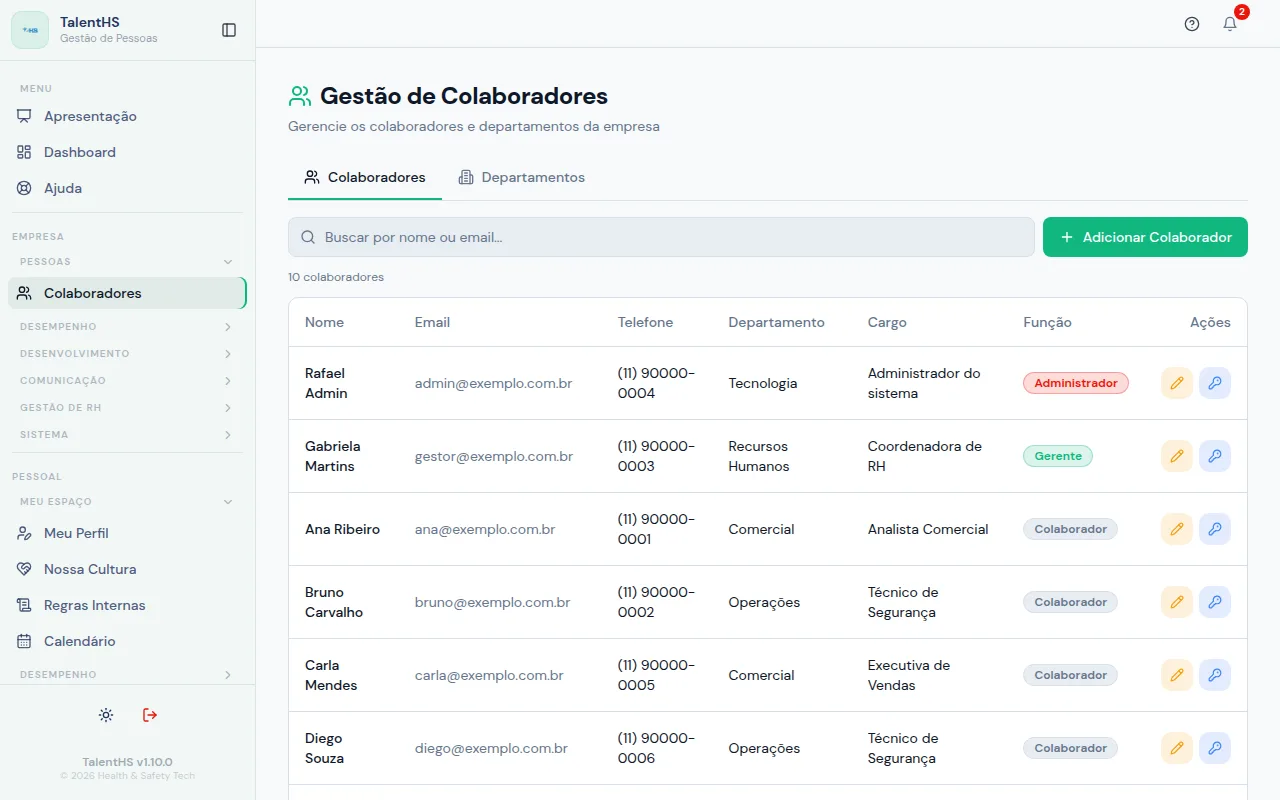
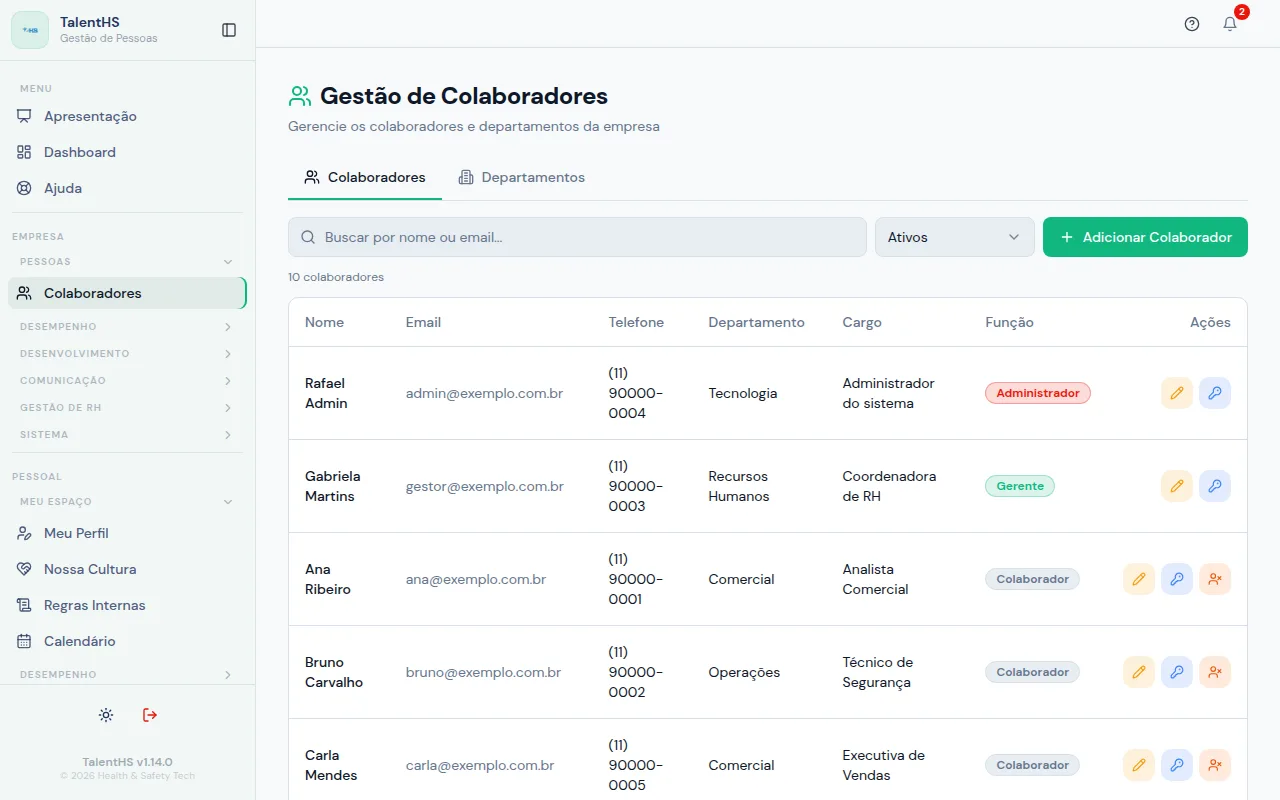
docs(ajuda): desligamento de colaboradores, versão 1.14.0
Guias e capturas das telas com Mostrar desligados, semente com um
desligado fictício, aviso de acesso desativado no login e resumo da
Trilha de Carreira só com ativos.

diff --git a/frontend/src/pages/CareerTracksPage.tsx b/frontend/src/pages/CareerTracksPage.tsx
@@ -68,8 +68,10 @@ export default function CareerTracksPage() {
 
   const toggleExpand = (id: string) => setExpanded(prev => ({ ...prev, [id]: !prev[id] }));
 
-  const eligibleCount = team?.filter(m => m.eligible_for_next).length ?? 0;
-  const noTrackCount = team?.filter(m => !m.track_id).length ?? 0;
+  // Indicadores só da equipe atual, mesmo com desligados visíveis na lista.
+  const countedTeam = team?.filter(m => !m.deactivated_at);
+  const eligibleCount = countedTeam?.filter(m => m.eligible_for_next).length ?? 0;
+  const noTrackCount = countedTeam?.filter(m => !m.track_id).length ?? 0;
 
   const totalTeamPages = Math.ceil((team?.length ?? 0) / teamPageSize);
   const teamStartIdx = (teamPage - 1) * teamPageSize;
@@ -95,7 +97,7 @@ export default function CareerTracksPage() {
           <div className="grid grid-cols-3 gap-4">
             <div className="rounded-xl border bg-card p-4">
               <p className="text-xs text-muted-foreground">Colaboradores</p>
-              <p className="text-2xl font-bold mt-1">{team.length}</p>
+              <p className="text-2xl font-bold mt-1">{countedTeam?.length ?? 0}</p>
             </div>
             <div className="rounded-xl border bg-card p-4">
               <p className="text-xs text-muted-foreground">Sem trilha</p>

diff --git a/frontend/src/components/ChangelogModal.tsx b/frontend/src/components/ChangelogModal.tsx
@@ -16,9 +16,31 @@ interface ChangelogVersion {
 
 const CHANGELOG: ChangelogVersion[] = [
   {
+    version: "v1.14.0",
+    date: "29/10/2026",
+    current: true,
+    entries: [
+      {
+        type: "novidade",
+        text: "O RH agora pode desligar quem saiu da empresa, registrando a data e o motivo. A pessoa perde o acesso e deixa de aparecer nas listas e contagens, mas todo o histórico continua guardado.",
+      },
+      {
+        type: "novidade",
+        text: "As telas de gestão ganharam a opção Mostrar desligados, para consultar o histórico de quem saiu.",
+      },
+      {
+        type: "melhoria",
+        text: "Quem foi desligado pode ser reativado, por exemplo numa recontratação, e volta a entrar com a mesma senha.",
+      },
+      {
+        type: "corrigido",
+        text: "O relatório Colaboradores voltou a ser baixado e agora pode incluir quem foi desligado.",
+      },
+    ],
+  },
+  {
     version: "v1.13.0",
     date: "21/10/2026",
-    current: true,
     entries: [
       {
         type: "novidade",

diff --git a/frontend/src/lib/loginError.test.ts b/frontend/src/lib/loginError.test.ts
@@ -1,0 +1,19 @@
+import { describe, expect, it } from "vitest";
+import { loginErrorMessage } from "./loginError";
+
+describe("loginErrorMessage", () => {
+  it("mostra o aviso de acesso desativado vindo do servidor", () => {
+    expect(loginErrorMessage(new Error("Seu acesso foi desativado. Procure o RH."))).toBe(
+      "Seu acesso foi desativado. Procure o RH.",
+    );
+  });
+
+  it("mantém a mensagem padrão para os demais erros", () => {
+    expect(loginErrorMessage(new Error("Email ou senha incorretos"))).toBe(
+      "Email ou senha incorretos. Verifique suas credenciais.",
+    );
+    expect(loginErrorMessage(new Error("Failed to fetch"))).toBe(
+      "Email ou senha incorretos. Verifique suas credenciais.",
+    );
+  });
+});

diff --git a/frontend/src/components/AdminSidebar.tsx b/frontend/src/components/AdminSidebar.tsx
@@ -294,7 +294,7 @@ export function AdminSidebar() {
             onClick={() => setChangelogOpen(true)}
             className="w-full rounded-md px-2 py-1.5 text-center transition-colors hover:bg-sidebar-accent"
           >
-            <p className="text-xs font-semibold text-muted-foreground/60 leading-tight hover:text-muted-foreground transition-colors">TalentHS v1.13.0</p>
+            <p className="text-xs font-semibold text-muted-foreground/60 leading-tight hover:text-muted-foreground transition-colors">TalentHS v1.14.0</p>
             <p className="text-[10px] text-muted-foreground/35 leading-tight">© 2026 Health & Safety Tech</p>
           </button>
         </div>

diff --git a/frontend/src/pages/LoginPage.tsx b/frontend/src/pages/LoginPage.tsx
@@ -14,6 +14,7 @@ import {
   DialogTitle,
 } from "@/components/ui/dialog";
 import { useToast } from "@/hooks/use-toast";
+import { loginErrorMessage } from "@/lib/loginError";
 
 const FEATURES = [
   {
@@ -60,7 +61,7 @@ export default function LoginPage() {
       toast({
         variant: "destructive",
         title: "Erro ao entrar",
-        description: "Email ou senha incorretos. Verifique suas credenciais.",
+        description: loginErrorMessage(error),
       });
     } else {
       navigate("/apresentacao");

diff --git a/frontend/src/lib/loginError.ts b/frontend/src/lib/loginError.ts
@@ -1,0 +1,6 @@
+const DEACTIVATED = "Seu acesso foi desativado. Procure o RH.";
+const DEFAULT = "Email ou senha incorretos. Verifique suas credenciais.";
+
+export function loginErrorMessage(error: Error): string {
+  return error.message === DEACTIVATED ? DEACTIVATED : DEFAULT;
+}

diff --git a/backend/scripts/seed_captures.py b/backend/scripts/seed_captures.py
@@ -800,6 +800,37 @@ class Seeder:
                 self.users[who], self.names[who], self.company_id, method, path, action, status, n * 5 + 1,
             )
 
+    async def former_employee(self) -> None:
+        """Um desligado com histórico, para as telas com "Mostrar desligados". Entra por
+        último: nenhuma seção anterior pode atribuir nada a ele."""
+        uid = str(await self.conn.fetchval(
+            """INSERT INTO auth.users (email, encrypted_password, email_confirmed_at, raw_user_meta_data)
+               VALUES ('carlos@exemplo.com.br', $1, now(), jsonb_build_object('name', 'Carlos Exemplo'))
+               RETURNING id""",
+            hash_pw(PASSWORD),
+        ))
+        await self.conn.execute(
+            """UPDATE public.profiles SET company_id = $2, department_id = $3, job_title = 'Assistente Comercial',
+                      birth_date = $4, hire_date = $5
+               WHERE user_id = $1""",
+            uid, self.company_id, self.depts["Comercial"], date(1996, 5, 17), date(self.today.year - 2, 4, 1),
+        )
+        await self.conn.execute(
+            "UPDATE public.user_roles SET company_id = $2 WHERE user_id = $1", uid, self.company_id
+        )
+        pid = await self.ins("pdi_plans", company_id=self.company_id, user_id=uid, eval_cycle_id=self.eval_cycle,
+                             title=f"PDI {self.today.year} — Carlos Exemplo",
+                             description="Plano combinado na conversa de feedback.", created_by=self.users["gestor"])
+        await self.ins("pdi_actions", plan_id=pid, title="Fazer o curso de atendimento ao cliente", position=0,
+                       status="done", completed_at=self.now - timedelta(days=60))
+        profile_id = await self.conn.fetchval("SELECT id FROM public.profiles WHERE user_id = $1", uid)
+        await self.ins("collaborator_terminations", profile_id=profile_id, company_id=self.company_id,
+                       termination_date=self.days(-15), reason="contract_end",
+                       note="Fim do contrato de experiência.", deactivated_by=self.users["gestor"])
+        await self.conn.execute(
+            "UPDATE public.profiles SET deactivated_at = $2 WHERE user_id = $1", uid, self.now - timedelta(days=15)
+        )
+
     async def run(self) -> dict:
         await self.reset()
         await self.company()
@@ -825,6 +856,7 @@ class Seeder:
         await self.timeclock()
         await self.salary()
         await self.misc()
+        await self.former_employee()
         return {
             "company": self.company_id,
             "users": self.users,

diff --git a/frontend/src/help/guides/administracao/colaboradores.md b/frontend/src/help/guides/administracao/colaboradores.md
@@ -16,6 +16,7 @@ A **Gestão de Colaboradores** é o cadastro das pessoas e dos departamentos da 
 - Quando muda algum dado de uma pessoa, como cargo, departamento ou telefone.
 - Quando alguém esquece a senha.
 - Para habilitar o ponto eletrônico de uma pessoa.
+- Quando uma pessoa sai da empresa e precisa ser desligada.
 - Para criar, renomear ou excluir departamentos.
 
 ## Passo a passo
@@ -23,6 +24,7 @@ A **Gestão de Colaboradores** é o cadastro das pessoas e dos departamentos da 
 1. No menu, no bloco **Empresa**, em **Pessoas**, clique em **Colaboradores**.
 2. Na aba **Colaboradores**, veja a lista com nome, e-mail, telefone, departamento, cargo e **Função** de cada pessoa. A **Função** pode ser **Administrador**, **Gerente** ou **Colaborador**.
 3. Para encontrar alguém, digite o nome ou o e-mail no campo de busca, acima da lista.
+4. Ao lado da busca, escolha **Ativos**, **Desligados** ou **Todos**. A lista abre em **Ativos**.
 
 ![Gestão de Colaboradores com a lista de pessoas, a busca e o botão Adicionar Colaborador](/capturas/admin-colaboradores.webp)
 
@@ -40,6 +42,15 @@ A **Gestão de Colaboradores** é o cadastro das pessoas e dos departamentos da 
 2. Altere o que precisar e clique em **Salvar**. Apagar o conteúdo de **CPF**, **Telefone**, **Cargo** ou das datas, ou trocar o **Departamento** por **Sem departamento**, não tem efeito: o dado antigo continua.
 3. Para que a pessoa registre o ponto pelo sistema, ligue **Bater ponto pelo sistema** e informe a **Jornada diária (horas)**.
 
+**Para desligar uma pessoa que saiu da empresa:**
+
+1. Na linha da pessoa, clique no ícone de pessoa com um X (**Desligar**).
+2. Em **Data do desligamento**, informe o dia em que a pessoa saiu. Pode ser hoje ou uma data passada.
+3. Em **Motivo**, escolha uma das opções. Se escolher **Outro**, descreva o motivo em **Observação**.
+4. Clique em **Desligar colaborador**.
+
+**Para reativar uma pessoa desligada**, por exemplo numa recontratação: escolha **Desligados** ao lado da busca, clique no ícone de pessoa com um visto (**Reativar**) e confirme em **Reativar**.
+
 **Para redefinir a senha:** na linha da pessoa, clique na chave, digite a **Nova senha**, com pelo menos 6 caracteres, e clique em **Redefinir Senha**. Depois, passe a nova senha para a pessoa.
 
 **Para cuidar dos departamentos:**
@@ -53,6 +64,9 @@ A **Gestão de Colaboradores** é o cadastro das pessoas e dos departamentos da 
 - Quem foi cadastrado já aparece na lista e pode entrar no TalentHS com a senha que você definiu.
 - A pessoa passa a aparecer nas outras telas de gestão, como Avaliação, PDI da Equipe e Onboarding.
 - Quem tem **Bater ponto pelo sistema** ligado passa a ver a tela **Meu Ponto** no menu.
+- Quem foi desligado perde o acesso na hora e deixa de aparecer nas listas, nos aniversários e nas contagens do sistema. Os benefícios em aberto da pessoa são encerrados na data do desligamento.
+- Nada do histórico de quem foi desligado é apagado. Nas telas de gestão, como PDI da Equipe, Ponto Eletrônico e Avaliação, ligue **Mostrar desligados** para ver o histórico da pessoa.
+- Quem é reativado volta a entrar com a mesma senha. Benefícios encerrados no desligamento precisam ser cadastrados de novo.
 - Ao excluir um departamento, as pessoas dele ficam sem departamento.
 
 ## Dúvidas comuns
@@ -60,5 +74,9 @@ A **Gestão de Colaboradores** é o cadastro das pessoas e dos departamentos da 
 **Não consigo mudar a Função de uma pessoa.** Só administradores alteram a função. Para os demais, a tela mostra "Apenas administradores podem alterar".
 
 **Não vejo a lixeira para excluir uma pessoa.** Excluir colaboradores é só para administradores. A exclusão não pode ser desfeita.
+
+**Desligar ou excluir?** Para quem saiu da empresa, desligue. O desligamento guarda todo o histórico e pode ser desfeito. A exclusão apaga a pessoa e o histórico dela de vez.
+
+**Não aparece a opção de desligar uma pessoa.** Gerentes não desligam administradores, e ninguém desliga a si mesmo. Peça a outro administrador.
 
 **Apareceu "Campos obrigatórios".** Confira o nome, o e-mail e a senha, que precisa ter pelo menos 6 caracteres. Se preencheu CPF ou telefone, eles precisam estar completos, com 11 dígitos.

diff --git a/CLAUDE.md b/CLAUDE.md
@@ -246,7 +246,7 @@ O tour de boas-vindas e a página `/ajuda` ficam em `frontend/src/help/`.
 - **Tour por tela** fica em `src/help/tours/screenTours.ts` e é ligado ao guia da tela pelo campo `tour:` do guia (é ele que faz aparecer **Mostrar nesta tela** no "?"). A tela do tour muda no mesmo commit que ele.
 - **Passo novo em tour já publicado** leva `since: <nova versão>` e o tour sobe `version`; quem já concluiu vê o passo pelo **O que mudou** (ponto no "?"). Remover passo, ou subir `version` sem nenhum passo com `since`, não aparece para quem concluiu.
 - **Bug conhecido que leva o leitor a errar ganha um "Atenção:" curto no guia** — onde seguir o guia perde dado, gasta tentativa ou leva a uma decisão errada de RH, o guia avisa em uma frase, em linguagem simples, ligada ao comportamento. O aviso sai **no mesmo commit que corrige o bug**. **Nunca vale para bug de segurança ou de permissão** — o texto dos guias vai num chunk estático público, então descrever a falha a divulga. Quem corrige um bug roda `grep -rn "Atenção:" frontend/src/help/guides` e remove o aviso correspondente **no mesmo commit**.
-- **Deploy:** migrações pendentes primeiro (`backend/scripts/aplicar_0NN.py`, rodadas pelo Erick; a 030 é do tour e a 031 da ordem dos vídeos) → backend → frontend.
+- **Deploy:** migrações pendentes primeiro (`backend/scripts/aplicar_0NN.py`, rodadas pelo Erick; a 030 é do tour, a 031 da ordem dos vídeos e a 032 do desligamento de colaboradores) → backend → frontend.
 - **Contratos em `src/help/**/*.test.ts`** — rotas, âncoras e textos dos tours são verificados por testes; rode `bun run test` antes de commitar.
 - **Capturas dos guias** ficam em `frontend/public/capturas/<nome>.webp` (**nunca** em `public/ajuda/` — o nginx redirecionaria `/ajuda` → `/ajuda/`) e são listadas em `frontend/scripts/captures.config.ts`. Só dado fictício, de um banco só delas. Para refazer:
   1. `bash backend/scripts/captures-db.sh` — recria o `talenths_capturas` no `pg-teste` (migrações + o DDL que só existe em produção: testes configuráveis e `profiles.job_title`);

diff --git a/frontend/src/help/guides/administracao/avaliacao.md b/frontend/src/help/guides/administracao/avaliacao.md
@@ -26,6 +26,8 @@ Clique no **?** e em **Mostrar nesta tela** para um passeio rápido por esta tel
 3. Veja o resumo: **Colaboradores**, **Autoavaliação** e **Aval. Gestor** (quantas já foram enviadas) e **Notas calc.**.
 4. Na tabela, as colunas **Auto** e **Gestor** mostram um visto verde para avaliação enviada e um relógio para pendente. Ao lado ficam a **Nota Final** e o quadrante do **9Box**.
 
+Quem foi desligado não aparece na tabela nem entra no resumo, e o **Calcular Notas** não calcula nota para essa pessoa. Para ver a avaliação de quem saiu, ligue **Mostrar desligados**, ao lado de **Calcular Notas**: a pessoa aparece com a etiqueta **Desligado(a)**.
+
 ![Avaliação de Desempenho com o resumo do ciclo e a tabela de colaboradores com as notas e o quadrante 9Box](/capturas/admin-avaliacao.webp)
 
 **Para avaliar um colaborador:**

diff --git a/frontend/src/help/guides/administracao/mapa-9box.md b/frontend/src/help/guides/administracao/mapa-9box.md
@@ -29,6 +29,8 @@ Clique no **?** e em **Mostrar nesta tela** para um passeio rápido por esta tel
 4. Em cada quadrante, veja o nome e a quantidade de pessoas. Passe o mouse sobre um nome para ver o nome completo, o departamento e a nota.
 5. Se as notas mudaram, clique em **Atualizar**.
 
+Quem foi desligado não aparece no quadro. Para ver a posição de quem saiu, ligue **Mostrar desligados**, no topo: o nome aparece mais claro e, ao passar o mouse, com a etiqueta **Desligado(a)**.
+
 ![Mapa 9Box com os nove quadrantes, as pessoas em cada um e os eixos de avaliação e de metas](/capturas/admin-9box.webp)
 
 A coroa marca os quadrantes elegíveis para a trilha de carreira: **Futuro Talento**, **Alta Competência**, **Forte Talento** e **Super Talento**. Uma estrela ao lado do nome indica que a posição da pessoa foi calibrada manualmente.

diff --git a/frontend/src/help/guides/administracao/universidade.md b/frontend/src/help/guides/administracao/universidade.md
@@ -22,6 +22,8 @@ A **Universidade Corporativa** registra os cursos que os colaboradores concluír
 2. Na aba **Progresso da Equipe**, veja o resumo: **Colaboradores**, **Total de horas**, **Cursos concluídos** e **Média por pessoa**. Logo abaixo, as horas de cada área.
 3. Clique no nome de uma pessoa para ver os cursos dela, com a área, as horas e a data de conclusão. Para achar alguém, digite o nome ou o departamento no campo de filtro.
 
+Quem foi desligado não aparece na lista nem entra no resumo. Para ver os cursos de quem saiu, ligue **Mostrar desligados**, ao lado do campo de filtro: a pessoa aparece com a etiqueta **Desligado(a)**.
+
 ![Universidade Corporativa com a importação por CSV, o resumo de horas da equipe e a lista de colaboradores](/capturas/admin-universidade.webp)
 
 **Para registrar cursos com uma planilha:**
